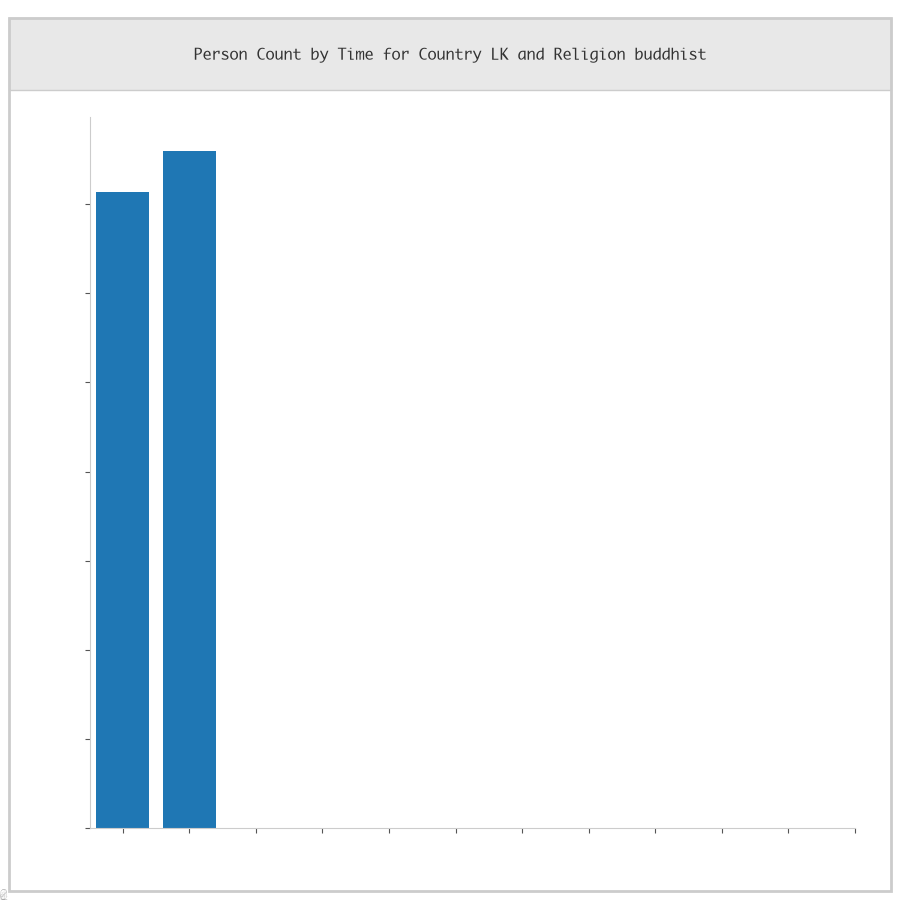
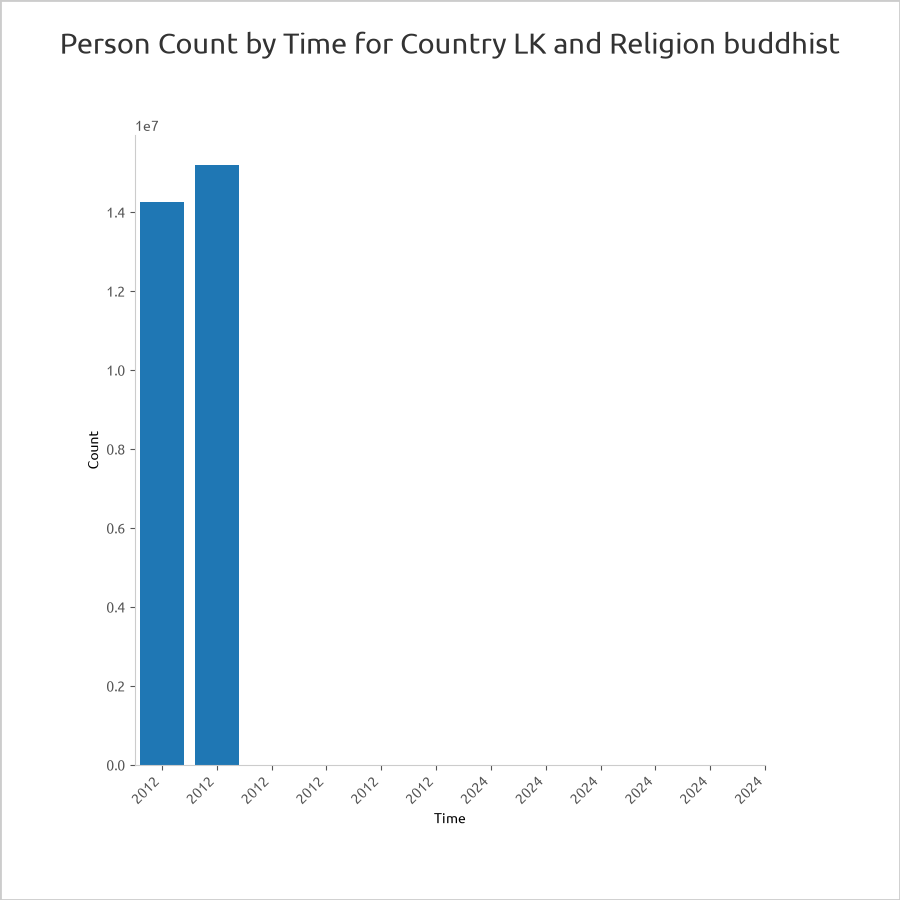
Fix FONT_FAMILY in Visual class to use Ubuntu and refactor title handling methods

diff --git a/src/ds/visual/Visual.py b/src/ds/visual/Visual.py
@@ -16,7 +16,7 @@ class Visual(ABC):
     BORDER_COLOR = "#cccccc"
     TITLE_COLOR = "#333333"
     SUBTITLE_COLOR = "#555555"
-    FONT_FAMILY = "Monaco"
+    FONT_FAMILY = "Ubuntu"
 
     def __init__(self, datumset, *params):
         self.datumset = datumset
@@ -53,7 +53,7 @@ class Visual(ABC):
     def _plot(self, fig, ax):
         pass
 
-    def _build_full_title(self):
+    def _get_title_text(self):
         datum = self.datumset[0]
         entity = datum.entity_class.__name__
         other = [
@@ -64,36 +64,24 @@ class Visual(ABC):
         suffix = " for " + " and ".join(other) if other else ""
         return f"{entity} {self._build_title()}{suffix}"
 
-    def _add_strip(self, fig):
-        strip = mpatches.Rectangle(
-            (0.01, 0.90),
-            0.98,
-            0.08,
-            transform=fig.transFigure,
-            facecolor=self.STRIP_COLOR,
-            edgecolor=self.BORDER_COLOR,
-            linewidth=1,
-            zorder=5,
-            clip_on=False,
-        )
-        fig.add_artist(strip)
+    def _add_title(self, fig):
+        title = self._get_title_text()
         fig.text(
             0.5,
-            0.94,
-            self._build_full_title(),
+            0.95,
+            title,
             ha="center",
             va="center",
-            fontsize=11,
+            fontsize=12 * (100 / len(title)),
             color=self.TITLE_COLOR,
             zorder=6,
         )
 
-    def _apply_style(self, fig, ax):
-        self._add_strip(fig)
+    def _add_border(self, fig):
         border = mpatches.Rectangle(
-            (0.01, 0.01),
-            0.98,
-            0.97,
+            (0.0, 0.0),
+            1,
+            1,
             transform=fig.transFigure,
             fill=False,
             edgecolor=self.BORDER_COLOR,
@@ -102,22 +90,20 @@ class Visual(ABC):
             clip_on=False,
         )
         fig.add_artist(border)
+
+    def _apply_style(self, fig, ax):
         ax.spines["top"].set_visible(False)
         ax.spines["right"].set_visible(False)
         ax.spines["left"].set_color(self.BORDER_COLOR)
         ax.spines["bottom"].set_color(self.BORDER_COLOR)
         ax.tick_params(colors=self.SUBTITLE_COLOR)
-        fig.text(
-            0.5,
-            0.02,
-            self.datumset[0].query.query_str,
-            ha="center",
-            va="bottom",
-            fontsize=7,
-            color="#aaaaaa",
-            zorder=6,
+        SUBPLOT_PADDING = 0.15
+        fig.subplots_adjust(
+            top=1 - SUBPLOT_PADDING,
+            bottom=SUBPLOT_PADDING,
+            left=SUBPLOT_PADDING,
+            right=1 - SUBPLOT_PADDING,
         )
-        fig.subplots_adjust(top=0.87, bottom=0.08, left=0.1, right=0.95)
 
     def draw(self):
         rc = {
@@ -127,6 +113,8 @@ class Visual(ABC):
         with plt.rc_context(rc):
             fig, ax = plt.subplots(figsize=self.FIGSIZE, dpi=self.DPI)
             self._plot(fig, ax)
+            self._add_title(fig)
+            self._add_border(fig)
             self._apply_style(fig, ax)
             fig.savefig(self.image_file.path)
             log.debug(f"Wrote {self.image_file}")
